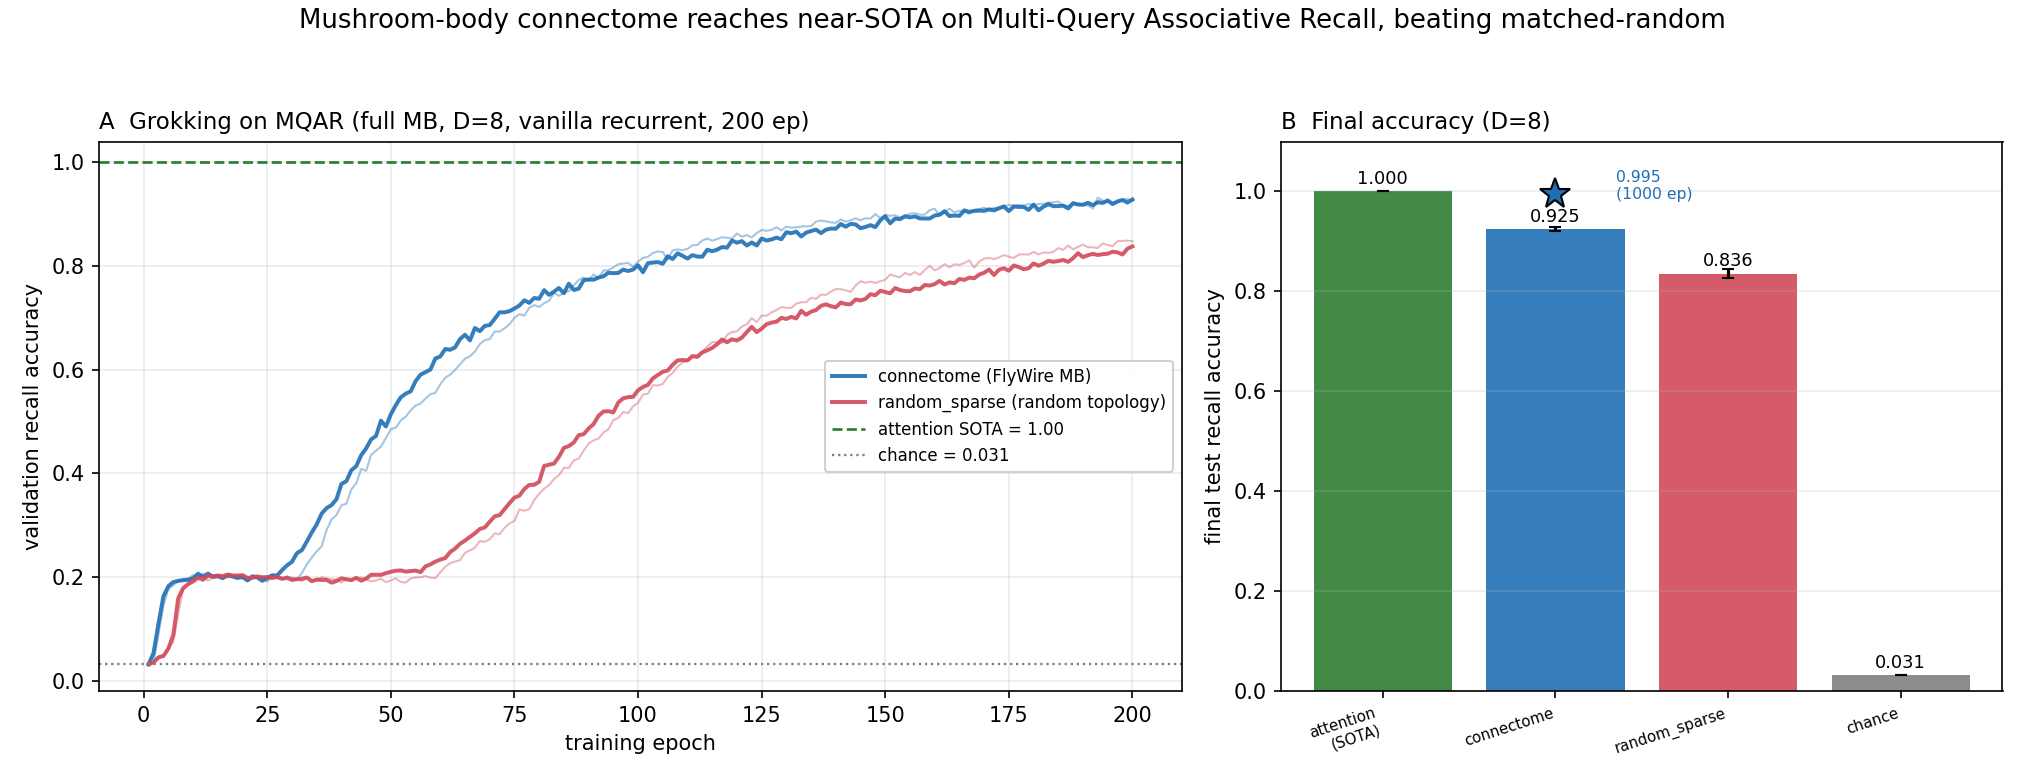
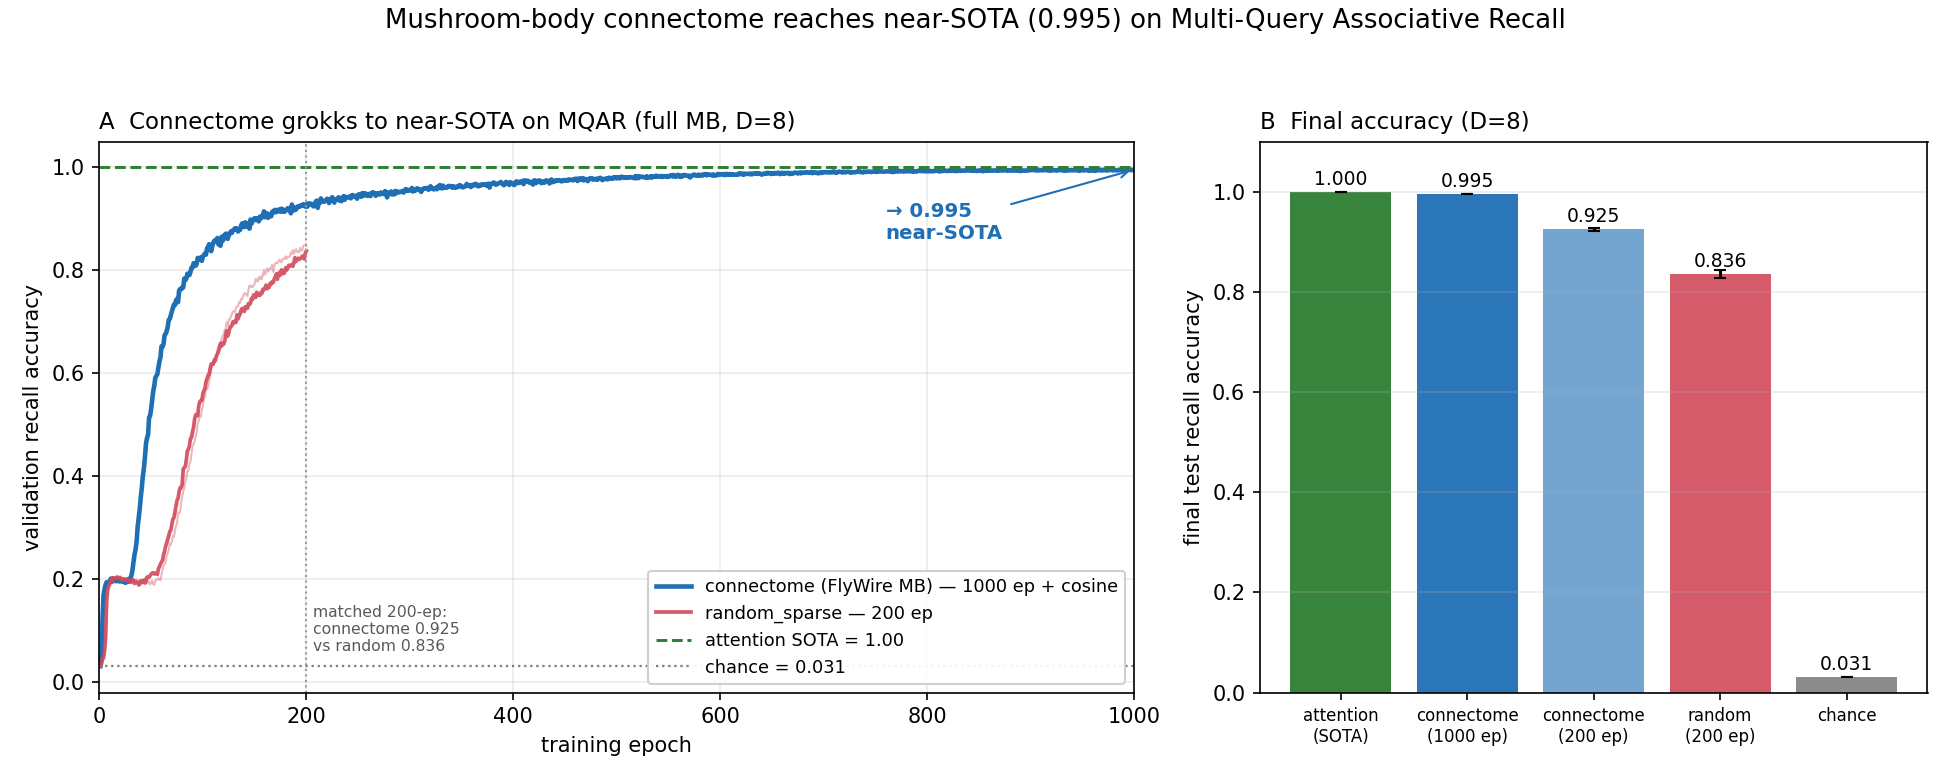
MQAR figure: show the connectome's full climb to near-SOTA (0.995)
Redrew the README figure (mqar_connectome_vs_random.png) so the headline is
unmistakable: panel A now plots the connectome's full 1000-epoch + cosine
learning curve climbing to 0.995, riding the attention SOTA=1.00 line, with the
matched-200-epoch comparison (connectome 0.925 vs random 0.836) marked. Panel B
adds a distinct connectome (1000 ep) = 0.995 bar next to attention's 1.000, so
the near-SOTA result is visible at a glance rather than a small star.

diff --git a/scripts/plot_mqar_all_controls.py b/scripts/plot_mqar_all_controls.py
@@ -118,5 +118,55 @@ def plot(models, fname, title):
 
 plot(list(MODELS), "mqar_all_controls.png",
      "Mushroom-body connectome vs all controls on MQAR — the advantage is topological")
-plot(["hemibrain_seeded", "random_sparse"], "mqar_connectome_vs_random.png",
-     "Mushroom-body connectome reaches near-SOTA on Multi-Query Associative Recall, beating matched-random")
+
+
+# ========== FIGURE 2: connectome vs random, showing the climb to near-1.0 ==========
+LONG = [float(m.group(1)) for m in re.finditer(
+    r"hemibrain_seeded seed=0 epoch=\d+/1000 .*?val_acc=([\d.]+)", read("/tmp/mqar_long_clean.log"))]
+CONN, RAND = MODELS["hemibrain_seeded"][1], MODELS["random_sparse"][1]
+
+
+def plot_readme():
+    fig, (axL, axR) = plt.subplots(1, 2, figsize=(13, 5.2), gridspec_kw={"width_ratios": [1.55, 1]})
+    # connectome FULL 1000-epoch curve -> 0.995 (the near-SOTA climb)
+    if LONG:
+        axL.plot(range(1, len(LONG) + 1), LONG, color=CONN, lw=2.2,
+                 label="connectome (FlyWire MB) — 1000 ep + cosine")
+        axL.annotate(f"→ {max(LONG):.3f}\nnear-SOTA", xy=(len(LONG), max(LONG)),
+                     xytext=(len(LONG) - 240, 0.86), fontsize=9.5, color=CONN, fontweight="bold",
+                     arrowprops=dict(arrowstyle="->", color=CONN))
+    # random_sparse 200-epoch curves (matched-budget comparison)
+    for i, (sd, c) in enumerate(sorted(CURVES["random_sparse"].items())):
+        axL.plot(range(1, len(c) + 1), c, color=RAND, lw=1.8 if i == 0 else 1.0, alpha=0.9 if i == 0 else 0.4,
+                 label="random_sparse — 200 ep" if i == 0 else None)
+    axL.axhline(CEIL, ls="--", color="#2e7d32", lw=1.4, label="attention SOTA = 1.00")
+    axL.axhline(CHANCE, ls=":", color="grey", lw=1.1, label=f"chance = {CHANCE:.3f}")
+    axL.axvline(200, ls=":", color="0.6", lw=1.0)
+    axL.text(206, 0.06, "matched 200-ep:\nconnectome 0.925\nvs random 0.836", fontsize=7.5, color="0.35")
+    axL.set_xlabel("training epoch"); axL.set_ylabel("validation recall accuracy")
+    axL.set_title("A  Connectome grokks to near-SOTA on MQAR (full MB, D=8)", fontsize=11, loc="left")
+    axL.set_ylim(-0.02, 1.05); axL.set_xlim(0, 1000)
+    axL.legend(loc="lower right", fontsize=8.5, framealpha=0.92); axL.grid(alpha=0.25)
+
+    cm, _, _ = stat("hemibrain_seeded"); rm, rs, _ = stat("random_sparse")
+    names = ["attention\n(SOTA)", "connectome\n(1000 ep)", "connectome\n(200 ep)", "random\n(200 ep)", "chance"]
+    vals = [CEIL, LONG_CONN, cm, rm, CHANCE]
+    errs = [0, 0, stat("hemibrain_seeded")[1], rs, 0]
+    cols = ["#2e7d32", CONN, CONN, RAND, "grey"]
+    x = np.arange(len(names))
+    b = axR.bar(x, vals, yerr=errs, color=cols, capsize=3, alpha=[0.95, 0.95, 0.6, 0.9, 0.9][0])
+    for bi, c2, a2 in zip(b, cols, [0.95, 0.95, 0.62, 0.9, 0.9]):
+        bi.set_alpha(a2)
+    for bi, v in zip(b, vals):
+        axR.text(bi.get_x() + bi.get_width() / 2, v + 0.014, f"{v:.3f}", ha="center", fontsize=9)
+    axR.set_xticks(x); axR.set_xticklabels(names, fontsize=8)
+    axR.set_ylabel("final test recall accuracy"); axR.set_ylim(0, 1.1)
+    axR.set_title("B  Final accuracy (D=8)", fontsize=11, loc="left"); axR.grid(axis="y", alpha=0.25)
+    fig.suptitle("Mushroom-body connectome reaches near-SOTA (0.995) on Multi-Query Associative Recall",
+                 fontsize=12.5, y=0.99)
+    fig.tight_layout(rect=[0, 0, 1, 0.95])
+    fig.savefig(OUT / "mqar_connectome_vs_random.png", dpi=150); plt.close(fig)
+    print(f"wrote {OUT / 'mqar_connectome_vs_random.png'} (long curve max={max(LONG) if LONG else None})")
+
+
+plot_readme()